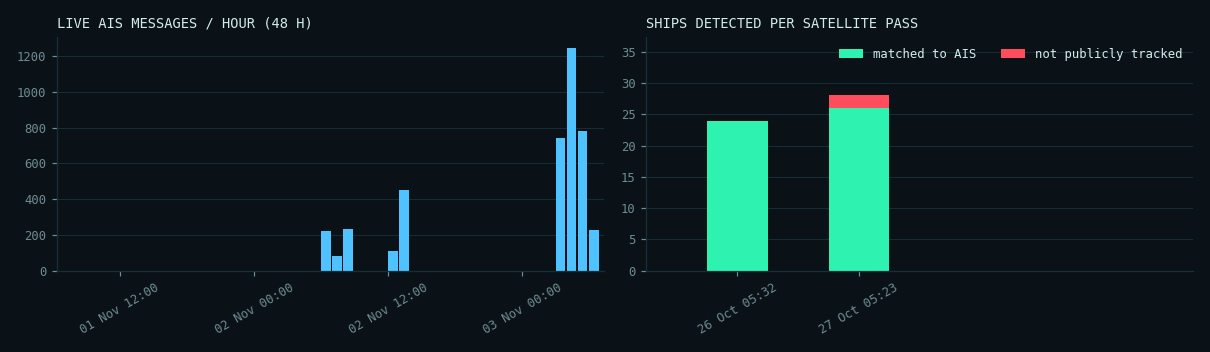
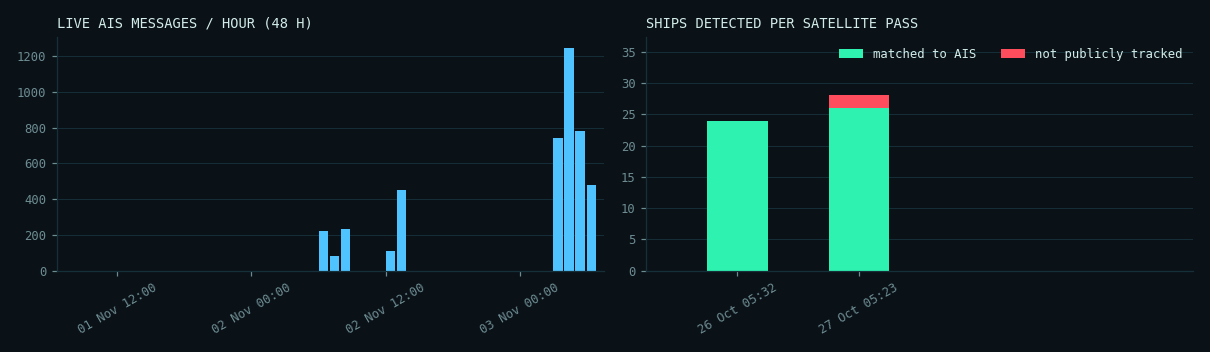
Automatic site update 2026-11-03 06:34 UTC

diff --git a/docs/denmark/index.html b/docs/denmark/index.html
@@ -83,13 +83,13 @@ footer{border-top:1px solid var(--line);padding:18px 0 28px;font:12px/1.6 var(--
   <div><div class="kicker">SAR &times; AIS &middot; MARITIME AWARENESS</div><div class="title">DARK VESSEL <b>DETECTION</b></div></div></a>
  <div class="status"><span class="pill"><span class="dot live"></span>AIS FEED <strong>LIVE</strong></span>
   <span class="pill">UTC <strong id="utc">--:--:--</strong></span>
-  <span class="pill">UPDATED <strong>03 Nov 06:20</strong></span></div>
+  <span class="pill">UPDATED <strong>03 Nov 06:34</strong></span></div>
 </div><nav class="tabs"><a class="" href="../index.html">OVERVIEW</a><a class="" href="../mumbai/index.html">MUMBAI</a><a class="on" href="../denmark/index.html">DENMARK</a><a class="" href="../nn/index.html">NEURAL NET</a><a class="" href="../demo/index.html">SIMULATION</a></nav></div></header>
 <main class="wrap"><div class="coords">SECTOR // DENMARK &middot; 55.55&ndash;55.85&deg;N &middot; 12.55&ndash;12.95&deg;E</div>
 <h1>Oresund, Copenhagen (Denmark/Sweden)</h1><p class="lede">Validation area. Sentinel-1 images it almost daily and coastal AIS coverage is dense, so the full match between radar and AIS can be shown and checked.</p>
 <div class="grid">
  <div class="panel"><div class="label">Live AIS feed</div><div class="value small"><span class='ok'>RECEIVING</span></div><div class="muted mono" style="font-size:12px;margin-top:6px">last message 0 min ago</div></div>
- <div class="panel"><div class="label">Ships broadcasting &middot; 30 min</div><div class="value cyan">51</div></div>
+ <div class="panel"><div class="label">Ships broadcasting &middot; 30 min</div><div class="value cyan">58</div></div>
  <div class="panel"><div class="label">Matched &middot; latest pass</div><div class="value ">26</div></div>
  <div class="panel"><div class="label">Not tracked &middot; high confidence</div><div class="value red">0</div></div>
  <div class="panel"><div class="label">Not tracked &middot; low confidence</div><div class="value amber">2</div></div>
@@ -98,7 +98,7 @@ footer{border-top:1px solid var(--line);padding:18px 0 28px;font:12px/1.6 var(--
 <div class="legend"><span><i style="background:var(--green)"></i>matched to AIS</span><span><i style="background:var(--red)"></i>not tracked &middot; high confidence</span>
 <span><i style="background:var(--amber)"></i>not tracked &middot; low confidence</span><span><i style="background:var(--cyan)"></i>live AIS position</span></div>
 <div id="map" class="map"></div><script>
-const D=[{"lon": 12.574560869565218, "lat": 55.849597826086956, "length_m": 72.681575622935, "score": 0.6554655519501138, "shore_km": 0.14150886088341372, "status": "matched", "reason": "", "confidence": "high", "crop": "", "ship_prob": 0.9335045218467712}, {"lon": 12.704759174311928, "lat": 55.82280412844037, "length_m": 364.1071436957287, "score": 0.9904753373251979, "shore_km": 9.407061429825474, "status": "matched", "reason": "", "confidence": "high", "crop": "", "ship_prob": 0.9868959784507751}, {"lon": 12.786416463414636, "lat": 55.804669512195126, "length_m": 155.0522474362954, "score": 0.9999646038759398, "shore_km": 4.658419014138412, "status": "matched", "reason": "", "confidence": "high", "crop": "", "ship_prob": 0.9993557333946228}, {"lon": 12.88229375, "lat": 55.849146875, "length_m": 53.38783327710226, "score": 0.9899546194309776, "shore_km": 0.9067240720863213, "status": "candidate", "reason": "same_spot_in_another_pass", "confidence": "low", "crop": "crops/S1-Oresund-20261027_37.png", "ship_prob": 0.7905591130256653}, {"lon": 12.604004166666668, "lat": 55.75985, "length_m": 141.84238362073958, "score": 0.6867268898684522, "shore_km": 0.07168283192738693, "status": "matched", "reason": "", "confidence": "high", "crop": "", "ship_prob": 0.5051270127296448}, {"lon": 12.605736764705883, "lat": 55.75241323529412, "length_m": 122.11483240811877, "score": 0.9136889320646264, "shore_km": 0.6454382429486746, "status": "candidate", "reason": "same_spot_in_another_pass", "confidence": "low", "crop": "crops/S1-Oresund-20261027_77.png", "ship_prob": 0.7927113175392151}, {"lon": 12.703722571428573, "lat": 55.77917742857143, "length_m": 223.0817648726515, "score": 0.9996320924909895, "shore_km": 5.943270442766068, "status": "matched", "reason": "", "confidence": "high", "crop": "", "ship_prob": 0.9938097596168518}, {"lon": 12.902757692307693, "lat": 55.75654230769231, "length_m": 65.46226537445588, "score": 0.7187896049600956, "shore_km": 0.03584141596369347, "status": "matched", "reason": "", "confidence": "high", "crop": "", "ship_prob": 0.8691755533218384}, {"lon": 12.589922222222222, "lat": 55.725764814814816, "length_m": 146.45480845096748, "score": 0.9957587025210503, "shore_km": 0.034771280891766385, "status": "matched", "reason": "", "confidence": "high", "crop": "", "ship_prob": 0.9983701109886169}, {"lon": 12.598472047244096, "lat": 55.72077913385827, "length_m": 207.62671185403417, "score": 0.609772230082722, "shore_km": 0.14016751439395445, "status": "matched", "reason": "", "confidence": "high", "crop": "", "ship_prob": 0.6074324250221252}, {"lon": 12.589218, "lat": 55.712854, "length_m": 90.49550243938293, "score": 0.6486089656085543, "shore_km": 0.043464101114707984, "status": "matched", "reason": "", "confidence": "high", "crop": "", "ship_prob": 0.9998902082443237}, {"lon": 12.59024090909091, "lat": 55.71147090909091, "length_m": 162.54265478639104, "score": 1.0, "shore_km": 0.06146752127277559, "status": "matched", "reason": "", "confidence": "high", "crop": "", "ship_prob": 0.9999992847442627}, {"lon": 12.597835937500001, "lat": 55.701648437500005, "length_m": 133.31776511703256, "score": 0.9396217092764791, "shore_km": 0.06789309632894441, "status": "matched", "reason": "", "confidence": "high", "crop": "", "ship_prob": 0.9999727010726929}, {"lon": 12.60914, "lat": 55.69712, "length_m": 65.36743236464424, "score": 0.7827588237578229, "shore_km": 0.03134240904220623, "status": "matched", "reason": "", "confidence": "high", "crop": "", "ship_prob": 0.9867132902145386}, {"lon": 12.668552272727274, "lat": 55.72007840909091, "length_m": 207.26605497726354, "score": 0.6251792307103263, "shore_km": 0.03584141596369347, "status": "matched", "reason": "", "confidence": "high", "crop": "", "ship_prob": 0.9087074398994446}, {"lon": 12.5996, "lat": 55.68885, "length_m": 40.00855981470757, "score": 0.7664068666153926, "shore_km": 0.024587008509110237, "status": "matched", "reason": "", "confidence": "high", "crop": "", "ship_prob": 0.9766618013381958}, {"lon": 12.595819230769232, "lat": 55.67989871794872, "length_m": 127.62371588738732, "score": 0.9426870407335851, "shore_km": 0.05068741655051085, "status": "matched", "reason": "", "confidence": "high", "crop": "", "ship_prob": 0.9998841285705566}, {"lon": 12.594722222222224, "lat": 55.67918888888889, "length_m": 40.64467714079742, "score": 0.7639524834029205, "shore_km": 0.043464101114707984, "status": "matched", "reason": "", "confidence": "high", "crop": "", "ship_prob": 0.9999454021453857}, {"lon": 12.610660714285714, "lat": 55.69618571428572, "length_m": 94.51225356515693, "score": 0.9621795096736379, "shore_km": 0.03134240904220623, "status": "matched", "reason": "", "confidence": "high", "crop": "", "ship_prob": 0.999042809009552}, {"lon": 12.649045000000001, "lat": 55.692155, "length_m": 80.63364746000343, "score": 0.8515033668168979, "shore_km": 0.8863693295037299, "status": "matched", "reason": "", "confidence": "high", "crop": "", "ship_prob": 0.4333752989768982}, {"lon": 12.630751724137932, "lat": 55.685453448275865, "length_m": 125.00287123881988, "score": 0.93629426700422, "shore_km": 0.043464101114707984, "status": "matched", "reason": "", "confidence": "high", "crop": "", "ship_prob": 0.9975905418395996}, {"lon": 12.634987254901962, "lat": 55.677338235294116, "length_m": 276.5478352749318, "score": 0.7686103584091717, "shore_km": 0.024587008509110237, "status": "matched", "reason": "", "confidence": "high", "crop": "", "ship_prob": 0.9729636907577515}, {"lon": 12.68766150442478, "lat": 55.69581814159292, "length_m": 176.8074930452176, "score": 0.923202226335388, "shore_km": 2.6834920471942074, "status": "matched", "reason": "", "confidence": "high", "crop": "", "ship_prob": 0.8427141904830933}, {"lon": 12.65826847826087, "lat": 55.63610108695652, "length_m": 174.21377549767067, "score": 0.9833187000337672, "shore_km": 0.043464101114707984, "status": "matched", "reason": "", "confidence": "high", "crop": "", "ship_prob": 0.9998973608016968}, {"lon": 12.680683333333334, "lat": 55.610910000000004, "length_m": 74.22790892756812, "score": 0.6314184609397504, "shore_km": 0.03134240904220623, "status": "matched", "reason": "", "confidence": "high", "crop": "", "ship_prob": 0.44054293632507324}, {"lon": 12.868352132196163, "lat": 55.60022420042644, "length_m": 299.20726350177785, "score": 0.9999960398718075, "shore_km": 2.8169298200726325, "status": "matched", "reason": "", "confidence": "high", "crop": "", "ship_prob": 0.9967911839485168}, {"lon": 12.680875, "lat": 55.59323, "length_m": 95.51211981545671, "score": 0.7585723176580392, "shore_km": 0.03584141596369347, "status": "matched", "reason": "", "confidence": "high", "crop": "", "ship_prob": 0.797581672668457}, {"lon": 12.706387741935485, "lat": 55.56306903225806, "length_m": 301.4640427512081, "score": 0.9999731380181186, "shore_km": 3.1965238712919084, "status": "matched", "reason": "", "confidence": "high", "crop": "", "ship_prob": 0.9941650032997131}],LIVE=[{"lon": 13.03514, "lat": 55.624698333333335, "sog": 0.1, "age": 11}, {"lon": 12.988921666666666, "lat": 55.62663833333333, "sog": 0.0, "age": 11}, {"lon": 12.634123333333333, "lat": 55.67576666666666, "sog": 0.0, "age": 9}, {"lon": 12.592986666666667, "lat": 55.67926333333333, "sog": 0.0, "age": 9}, {"lon": 12.634923333333335, "lat": 55.68710333333333, "sog": 0.0, "age": 8}, {"lon": 12.97177, "lat": 55.63516333333334, "sog": 4.7, "age": 8}, {"lon": 12.48837, "lat": 55.517455000000005, "sog": 0.0, "age": 8}, {"lon": 12.83042, "lat": 55.85602333333333, "sog": 0.0, "age": 8}, {"lon": 12.603501666666666, "lat": 55.76060333333333, "sog": 0.0, "age": 7}, {"lon": 13.03378, "lat": 55.624555, "sog": 0.0, "age": 7}, {"lon": 12.611668333333334, "lat": 55.90405666666666, "sog": 6.2, "age": 7}, {"lon": 12.635378333333334, "lat": 55.67645166666667, "sog": 0.0, "age": 7}, {"lon": 12.823653333333334, "lat": 55.86640666666666, "sog": 0.1, "age": 6}, {"lon": 12.695068333333333, "lat": 55.40103833333333, "sog": 11.1, "age": 6}, {"lon": 12.676611666666668, "lat": 55.93177333333333, "sog": 0.0, "age": 5}, {"lon": 12.827605, "lat": 55.86271, "sog": 0.0, "age": 5}, {"lon": 12.833733333333333, "lat": 55.85573333333333, "sog": 0.0, "age": 5}, {"lon": 12.8329, "lat": 55.85850666666667, "sog": 0.0, "age": 4}, {"lon": 12.636835, "lat": 55.91780333333334, "sog": 8.5, "age": 4}, {"lon": 12.680176666666666, "lat": 55.59282666666666, "sog": 0.0, "age": 3}, {"lon": 12.665905, "lat": 55.719773333333336, "sog": 0.0, "age": 3}, {"lon": 12.823925000000001, "lat": 55.865898333333334, "sog": 4.5, "age": 3}, {"lon": 12.833300000000001, "lat": 55.85588333333333, "sog": 0.0, "age": 3}, {"lon": 12.572716666666668, "lat": 55.850813333333335, "sog": 0.0, "age": 3}, {"lon": 12.48245, "lat": 55.6014, "sog": 0.0, "age": 3}, {"lon": 12.594958333333333, "lat": 55.68246333333333, "sog": 0.0, "age": 2}, {"lon": 12.603496666666667, "lat": 55.76053666666667, "sog": 0.0, "age": 2}, {"lon": 12.732318333333334, "lat": 55.91757166666666, "sog": 10.7, "age": 2}, {"lon": 12.599034999999999, "lat": 55.68902833333333, "sog": 0.0, "age": 2}, {"lon": 12.744403333333334, "lat": 55.99328, "sog": 0.0, "age": 2}, {"lon": 12.82485, "lat": 55.865916666666664, "sog": 0.0, "age": 2}, {"lon": 12.831928333333334, "lat": 55.85404166666667, "sog": 0.0, "age": 1}, {"lon": 12.593515, "lat": 55.679134999999995, "sog": 0.0, "age": 1}, {"lon": 12.729398333333334, "lat": 55.980019999999996, "sog": 0.0, "age": 1}, {"lon": 12.64747, "lat": 55.676876666666665, "sog": 0.0, "age": 1}, {"lon": 12.676870000000001, "lat": 55.593939999999996, "sog": 0.0, "age": 1}, {"lon": 12.630685, "lat": 55.68995833333334, "sog": 0.0, "age": 1}, {"lon": 12.761291666666667, "lat": 55.88433, "sog": 1.4, "age": 1}, {"lon": 12.658303333333333, "lat": 55.852925, "sog": 7.3, "age": 1}, {"lon": 12.892151666666667, "lat": 55.52372666666667, "sog": 0.0, "age": 1}, {"lon": 12.646843333333333, "lat": 55.677389999999995, "sog": 0.0, "age": 1}, {"lon": 13.058494999999999, "lat": 55.67565333333334, "sog": 0.0, "age": 1}, {"lon": 12.680058333333333, "lat": 55.59289833333333, "sog": 0.0, "age": 1}, {"lon": 12.903493333333333, "lat": 55.75664166666666, "sog": 0.1, "age": 1}, {"lon": 12.667261666666667, "lat": 55.718905, "sog": 0.1, "age": 1}, {"lon": 12.501025, "lat": 55.61134833333333, "sog": 0.0, "age": 0}, {"lon": 12.625271666666666, "lat": 55.69106166666666, "sog": 0.0, "age": 0}, {"lon": 12.696838333333334, "lat": 55.520271666666666, "sog": 10.0, "age": 0}, {"lon": 12.744448333333334, "lat": 55.99321833333333, "sog": 0.0, "age": 0}, {"lon": 12.687335, "lat": 55.661188333333335, "sog": 10.2, "age": 0}, {"lon": 12.835141666666667, "lat": 55.85987, "sog": 0.0, "age": 0}],B=[[55.55,12.55],[55.85,12.95]];const m=L.map('map',{zoomSnap:.25}).fitBounds(B);
+const D=[{"lon": 12.574560869565218, "lat": 55.849597826086956, "length_m": 72.681575622935, "score": 0.6554655519501138, "shore_km": 0.14150886088341372, "status": "matched", "reason": "", "confidence": "high", "crop": "", "ship_prob": 0.9335045218467712}, {"lon": 12.704759174311928, "lat": 55.82280412844037, "length_m": 364.1071436957287, "score": 0.9904753373251979, "shore_km": 9.407061429825474, "status": "matched", "reason": "", "confidence": "high", "crop": "", "ship_prob": 0.9868959784507751}, {"lon": 12.786416463414636, "lat": 55.804669512195126, "length_m": 155.0522474362954, "score": 0.9999646038759398, "shore_km": 4.658419014138412, "status": "matched", "reason": "", "confidence": "high", "crop": "", "ship_prob": 0.9993557333946228}, {"lon": 12.88229375, "lat": 55.849146875, "length_m": 53.38783327710226, "score": 0.9899546194309776, "shore_km": 0.9067240720863213, "status": "candidate", "reason": "same_spot_in_another_pass", "confidence": "low", "crop": "crops/S1-Oresund-20261027_37.png", "ship_prob": 0.7905591130256653}, {"lon": 12.604004166666668, "lat": 55.75985, "length_m": 141.84238362073958, "score": 0.6867268898684522, "shore_km": 0.07168283192738693, "status": "matched", "reason": "", "confidence": "high", "crop": "", "ship_prob": 0.5051270127296448}, {"lon": 12.605736764705883, "lat": 55.75241323529412, "length_m": 122.11483240811877, "score": 0.9136889320646264, "shore_km": 0.6454382429486746, "status": "candidate", "reason": "same_spot_in_another_pass", "confidence": "low", "crop": "crops/S1-Oresund-20261027_77.png", "ship_prob": 0.7927113175392151}, {"lon": 12.703722571428573, "lat": 55.77917742857143, "length_m": 223.0817648726515, "score": 0.9996320924909895, "shore_km": 5.943270442766068, "status": "matched", "reason": "", "confidence": "high", "crop": "", "ship_prob": 0.9938097596168518}, {"lon": 12.902757692307693, "lat": 55.75654230769231, "length_m": 65.46226537445588, "score": 0.7187896049600956, "shore_km": 0.03584141596369347, "status": "matched", "reason": "", "confidence": "high", "crop": "", "ship_prob": 0.8691755533218384}, {"lon": 12.589922222222222, "lat": 55.725764814814816, "length_m": 146.45480845096748, "score": 0.9957587025210503, "shore_km": 0.034771280891766385, "status": "matched", "reason": "", "confidence": "high", "crop": "", "ship_prob": 0.9983701109886169}, {"lon": 12.598472047244096, "lat": 55.72077913385827, "length_m": 207.62671185403417, "score": 0.609772230082722, "shore_km": 0.14016751439395445, "status": "matched", "reason": "", "confidence": "high", "crop": "", "ship_prob": 0.6074324250221252}, {"lon": 12.589218, "lat": 55.712854, "length_m": 90.49550243938293, "score": 0.6486089656085543, "shore_km": 0.043464101114707984, "status": "matched", "reason": "", "confidence": "high", "crop": "", "ship_prob": 0.9998902082443237}, {"lon": 12.59024090909091, "lat": 55.71147090909091, "length_m": 162.54265478639104, "score": 1.0, "shore_km": 0.06146752127277559, "status": "matched", "reason": "", "confidence": "high", "crop": "", "ship_prob": 0.9999992847442627}, {"lon": 12.597835937500001, "lat": 55.701648437500005, "length_m": 133.31776511703256, "score": 0.9396217092764791, "shore_km": 0.06789309632894441, "status": "matched", "reason": "", "confidence": "high", "crop": "", "ship_prob": 0.9999727010726929}, {"lon": 12.60914, "lat": 55.69712, "length_m": 65.36743236464424, "score": 0.7827588237578229, "shore_km": 0.03134240904220623, "status": "matched", "reason": "", "confidence": "high", "crop": "", "ship_prob": 0.9867132902145386}, {"lon": 12.668552272727274, "lat": 55.72007840909091, "length_m": 207.26605497726354, "score": 0.6251792307103263, "shore_km": 0.03584141596369347, "status": "matched", "reason": "", "confidence": "high", "crop": "", "ship_prob": 0.9087074398994446}, {"lon": 12.5996, "lat": 55.68885, "length_m": 40.00855981470757, "score": 0.7664068666153926, "shore_km": 0.024587008509110237, "status": "matched", "reason": "", "confidence": "high", "crop": "", "ship_prob": 0.9766618013381958}, {"lon": 12.595819230769232, "lat": 55.67989871794872, "length_m": 127.62371588738732, "score": 0.9426870407335851, "shore_km": 0.05068741655051085, "status": "matched", "reason": "", "confidence": "high", "crop": "", "ship_prob": 0.9998841285705566}, {"lon": 12.594722222222224, "lat": 55.67918888888889, "length_m": 40.64467714079742, "score": 0.7639524834029205, "shore_km": 0.043464101114707984, "status": "matched", "reason": "", "confidence": "high", "crop": "", "ship_prob": 0.9999454021453857}, {"lon": 12.610660714285714, "lat": 55.69618571428572, "length_m": 94.51225356515693, "score": 0.9621795096736379, "shore_km": 0.03134240904220623, "status": "matched", "reason": "", "confidence": "high", "crop": "", "ship_prob": 0.999042809009552}, {"lon": 12.649045000000001, "lat": 55.692155, "length_m": 80.63364746000343, "score": 0.8515033668168979, "shore_km": 0.8863693295037299, "status": "matched", "reason": "", "confidence": "high", "crop": "", "ship_prob": 0.4333752989768982}, {"lon": 12.630751724137932, "lat": 55.685453448275865, "length_m": 125.00287123881988, "score": 0.93629426700422, "shore_km": 0.043464101114707984, "status": "matched", "reason": "", "confidence": "high", "crop": "", "ship_prob": 0.9975905418395996}, {"lon": 12.634987254901962, "lat": 55.677338235294116, "length_m": 276.5478352749318, "score": 0.7686103584091717, "shore_km": 0.024587008509110237, "status": "matched", "reason": "", "confidence": "high", "crop": "", "ship_prob": 0.9729636907577515}, {"lon": 12.68766150442478, "lat": 55.69581814159292, "length_m": 176.8074930452176, "score": 0.923202226335388, "shore_km": 2.6834920471942074, "status": "matched", "reason": "", "confidence": "high", "crop": "", "ship_prob": 0.8427141904830933}, {"lon": 12.65826847826087, "lat": 55.63610108695652, "length_m": 174.21377549767067, "score": 0.9833187000337672, "shore_km": 0.043464101114707984, "status": "matched", "reason": "", "confidence": "high", "crop": "", "ship_prob": 0.9998973608016968}, {"lon": 12.680683333333334, "lat": 55.610910000000004, "length_m": 74.22790892756812, "score": 0.6314184609397504, "shore_km": 0.03134240904220623, "status": "matched", "reason": "", "confidence": "high", "crop": "", "ship_prob": 0.44054293632507324}, {"lon": 12.868352132196163, "lat": 55.60022420042644, "length_m": 299.20726350177785, "score": 0.9999960398718075, "shore_km": 2.8169298200726325, "status": "matched", "reason": "", "confidence": "high", "crop": "", "ship_prob": 0.9967911839485168}, {"lon": 12.680875, "lat": 55.59323, "length_m": 95.51211981545671, "score": 0.7585723176580392, "shore_km": 0.03584141596369347, "status": "matched", "reason": "", "confidence": "high", "crop": "", "ship_prob": 0.797581672668457}, {"lon": 12.706387741935485, "lat": 55.56306903225806, "length_m": 301.4640427512081, "score": 0.9999731380181186, "shore_km": 3.1965238712919084, "status": "matched", "reason": "", "confidence": "high", "crop": "", "ship_prob": 0.9941650032997131}],LIVE=[{"lon": 13.03514, "lat": 55.624698333333335, "sog": 0.1, "age": 25}, {"lon": 12.603501666666666, "lat": 55.76060333333333, "sog": 0.0, "age": 21}, {"lon": 12.695068333333333, "lat": 55.40103833333333, "sog": 11.1, "age": 19}, {"lon": 12.676611666666668, "lat": 55.93177333333333, "sog": 0.0, "age": 19}, {"lon": 12.833733333333333, "lat": 55.85573333333333, "sog": 0.0, "age": 19}, {"lon": 12.665905, "lat": 55.719773333333336, "sog": 0.0, "age": 17}, {"lon": 12.646843333333333, "lat": 55.677389999999995, "sog": 0.0, "age": 15}, {"lon": 12.592983333333333, "lat": 55.67926166666667, "sog": 0.0, "age": 13}, {"lon": 12.593533333333333, "lat": 55.67915, "sog": 0.0, "age": 11}, {"lon": 12.827713333333332, "lat": 55.862743333333334, "sog": 0.1, "age": 11}, {"lon": 12.835138333333333, "lat": 55.85987, "sog": 0.0, "age": 11}, {"lon": 12.990161666666667, "lat": 55.62688, "sog": 0.0, "age": 9}, {"lon": 13.033296666666667, "lat": 55.62452, "sog": 0.0, "age": 9}, {"lon": 12.692533333333333, "lat": 55.50602666666667, "sog": 10.1, "age": 9}, {"lon": 12.634111666666666, "lat": 55.675758333333334, "sog": 0.0, "age": 8}, {"lon": 12.955386666666667, "lat": 55.65205, "sog": 5.0, "age": 8}, {"lon": 12.634843333333333, "lat": 55.687155, "sog": 0.0, "age": 7}, {"lon": 12.729386666666667, "lat": 55.98001, "sog": 0.0, "age": 6}, {"lon": 12.594948333333333, "lat": 55.68244666666667, "sog": 0.0, "age": 4}, {"lon": 12.647473333333332, "lat": 55.67688, "sog": 0.0, "age": 4}, {"lon": 12.680433333333333, "lat": 55.611239999999995, "sog": 0.0, "age": 4}, {"lon": 12.488356666666666, "lat": 55.51745833333334, "sog": 0.0, "age": 4}, {"lon": 12.903505, "lat": 55.756643333333336, "sog": 0.1, "age": 4}, {"lon": 12.744415, "lat": 55.993293333333334, "sog": 0.0, "age": 4}, {"lon": 12.482431666666667, "lat": 55.60140666666667, "sog": 0.0, "age": 4}, {"lon": 12.8329, "lat": 55.85850666666667, "sog": 0.0, "age": 3}, {"lon": 12.694516666666667, "lat": 55.631795000000004, "sog": 9.9, "age": 3}, {"lon": 12.676934999999999, "lat": 55.59396666666667, "sog": 0.0, "age": 3}, {"lon": 12.997353333333333, "lat": 55.61365, "sog": 0.0, "age": 2}, {"lon": 12.66508, "lat": 55.827745, "sog": 8.0, "age": 2}, {"lon": 12.634808333333332, "lat": 55.87186, "sog": 7.1, "age": 2}, {"lon": 12.744443333333333, "lat": 55.993225, "sog": 0.0, "age": 2}, {"lon": 12.65814, "lat": 55.88143166666667, "sog": 8.5, "age": 2}, {"lon": 12.62525, "lat": 55.69106166666666, "sog": 0.0, "age": 2}, {"lon": 12.999793333333335, "lat": 55.618365000000004, "sog": 0.0, "age": 2}, {"lon": 12.833333333333334, "lat": 55.855916666666666, "sog": 0.0, "age": 2}, {"lon": 12.766726666666667, "lat": 55.886995, "sog": 6.1, "age": 1}, {"lon": 12.823966666666667, "lat": 55.864866666666664, "sog": 6.0, "age": 1}, {"lon": 12.603496666666667, "lat": 55.760515000000005, "sog": 0.0, "age": 1}, {"lon": 12.768068333333334, "lat": 55.88643666666667, "sog": 7.1, "age": 1}, {"lon": 12.68016, "lat": 55.59282333333333, "sog": 0.0, "age": 1}, {"lon": 12.680065, "lat": 55.59288166666667, "sog": 0.0, "age": 1}, {"lon": 12.98892, "lat": 55.62665666666667, "sog": 0.0, "age": 1}, {"lon": 12.599029999999999, "lat": 55.68902833333333, "sog": 0.0, "age": 1}, {"lon": 12.830413333333333, "lat": 55.85601333333333, "sog": 0.0, "age": 1}, {"lon": 12.823649999999999, "lat": 55.86640333333333, "sog": 0.1, "age": 0}, {"lon": 12.997253333333333, "lat": 55.61376, "sog": 0.1, "age": 0}, {"lon": 13.058503333333334, "lat": 55.67564333333333, "sog": 0.0, "age": 0}, {"lon": 12.892185000000001, "lat": 55.52374, "sog": 0.0, "age": 0}, {"lon": 12.825334999999999, "lat": 55.86550666666667, "sog": 0.0, "age": 0}, {"lon": 12.831928333333334, "lat": 55.85404333333334, "sog": 0.0, "age": 0}, {"lon": 12.572728333333334, "lat": 55.85085166666667, "sog": 0.0, "age": 0}, {"lon": 12.72982, "lat": 55.75190166666666, "sog": 0.0, "age": 0}, {"lon": 13.033818333333333, "lat": 55.624583333333334, "sog": 0.0, "age": 0}, {"lon": 12.666916666666667, "lat": 55.71884, "sog": 0.1, "age": 0}, {"lon": 12.630748333333335, "lat": 55.689814999999996, "sog": 0.0, "age": 0}, {"lon": 12.635351666666667, "lat": 55.67645166666667, "sog": 0.0, "age": 0}, {"lon": 12.501046666666667, "lat": 55.611325, "sog": 0.0, "age": 0}],B=[[55.55,12.55],[55.85,12.95]];const m=L.map('map',{zoomSnap:.25}).fitBounds(B);
 // re-fit once layout has settled: if the container had no size when the map was created, Leaflet falls back to zoom 0
 const refit=()=>{m.invalidateSize();m.fitBounds(B);};setTimeout(refit,0);window.addEventListener('load',refit);
 // standard OSM tiles (no API key), turned into a dark "radar console" basemap with a CSS filter (.radar-tiles)
@@ -116,7 +116,7 @@ L.control.layers(null,{'Radar detections (selected pass)':det,'Live AIS, last 30
 </script>
 <h2>Pass log</h2><div class='tablewrap'><table><thead><tr><th>pass (UTC)</th><th>ships</th><th>matched</th><th>not tracked</th><th>low conf.</th><th>match rate</th><th>AIS msgs</th></tr></thead><tbody><tr><td>2026-10-27 05:23 UTC</td><td>28</td><td class='ok'>26</td><td class='bad'>0</td><td style='color:var(--amber)'>2</td><td>93%</td><td>10687</td></tr><tr><td>2026-10-26 05:32 UTC</td><td>24</td><td class='ok'>24</td><td class='bad'>0</td><td style='color:var(--amber)'>0</td><td>100%</td><td>11603</td></tr></tbody></table></div>
 <h2>Telemetry</h2><img class="chart" src="charts.png" alt="AIS messages per hour and ships detected per pass">
-<p class="muted mono" style="font-size:12px">Feed gaps in the last 24 h: 13 (1206 min) &middot; AIS messages in the last hour: 876</p>
+<p class="muted mono" style="font-size:12px">Feed gaps in the last 24 h: 15 (1210 min) &middot; AIS messages in the last hour: 816</p>
 <h2>Recent Sentinel-1 acquisitions</h2><ul class="acq"><li>2026-11-02 05:23 UTC</li><li>2026-11-01 16:44 UTC</li><li>2026-11-01 05:31 UTC</li><li>2026-10-31 16:52 UTC</li><li>2026-10-30 17:00 UTC</li><li>2026-10-27 05:23 UTC</li><li>2026-10-26 05:32 UTC</li><li>2026-10-25 16:52 UTC</li></ul></main>
 <footer><div class="wrap">Data: Copernicus Sentinel-1 (ESA) &middot; AIS via aisstream.io and the Danish Maritime Authority &middot;
 coastlines, structures and basemap &copy; OpenStreetMap contributors. Flags are candidates for review, not accusations.</div></footer>

diff --git a/docs/index.html b/docs/index.html
@@ -83,7 +83,7 @@ footer{border-top:1px solid var(--line);padding:18px 0 28px;font:12px/1.6 var(--
   <div><div class="kicker">SAR &times; AIS &middot; MARITIME AWARENESS</div><div class="title">DARK VESSEL <b>DETECTION</b></div></div></a>
  <div class="status"><span class="pill"><span class="dot live"></span>AIS FEED <strong>LIVE</strong></span>
   <span class="pill">UTC <strong id="utc">--:--:--</strong></span>
-  <span class="pill">UPDATED <strong>03 Nov 06:20</strong></span></div>
+  <span class="pill">UPDATED <strong>03 Nov 06:34</strong></span></div>
 </div><nav class="tabs"><a class="on" href="index.html">OVERVIEW</a><a class="" href="mumbai/index.html">MUMBAI</a><a class="" href="denmark/index.html">DENMARK</a><a class="" href="nn/index.html">NEURAL NET</a><a class="" href="demo/index.html">SIMULATION</a></nav></div></header>
 <main class="wrap"><div class="coords">SYSTEM OVERVIEW</div>
 <h1>Ships the radar sees that nobody is tracking</h1>
@@ -91,7 +91,7 @@ footer{border-top:1px solid var(--line);padding:18px 0 28px;font:12px/1.6 var(--
 This system compares the two for each processed Sentinel-1 pass and lists the ships that appear on radar with no matching AIS signal.</p>
 <div class="grid" style="margin-top:18px"><div class="panel"><div class="label">Satellite passes processed</div><div class="value ">3</div></div><div class="panel"><div class="label">Ships matched to AIS</div><div class="value ">50</div></div>
 <div class="panel"><div class="label">Not tracked &middot; high confidence</div><div class="value red">0</div></div><div class="panel"><div class="label">Not tracked &middot; low confidence</div><div class="value amber">117</div></div>
-<div class="panel"><div class="label">Broadcasting now &middot; 30 min</div><div class="value cyan">51</div></div></div>
+<div class="panel"><div class="label">Broadcasting now &middot; 30 min</div><div class="value cyan">58</div></div></div>
 <p class="muted" style="font-size:13px;margin-top:10px"><b>High confidence</b> = no AIS ship nearby although the AIS feed was healthy and the
 target is within receiver range, and it is not at a spot where something was also seen on another pass. Everything else is
 <b>low confidence</b>: the data cannot support calling it dark (for example Mumbai, where no AIS was available for the pass at all).</p>
@@ -114,14 +114,14 @@ same pipeline using historical AIS. Next expected passes: Mumbai about 5 Nov 01:
 <div class="kv"><span>ships matched to AIS</span><span class="ok">50</span></div>
 <div class="kv"><span>not tracked, high confidence</span><span class="bad">0</span></div>
 <div class="kv"><span>not tracked, low confidence</span><span style="color:var(--amber)">2</span></div>
-<div class="kv"><span>broadcasting now (30 min)</span><span style="color:var(--cyan)">51</span></div>
+<div class="kv"><span>broadcasting now (30 min)</span><span style="color:var(--cyan)">58</span></div>
 <div class="go">OPEN SECTOR &rarr;</div></a></div>
 <h2>Read before trusting a flag</h2>
 <div class="alert"><b>"Not publicly tracked" is not "switched off".</b> Small boats often carry no public AIS, free AIS comes from coastal
 receivers with limited range, and ships under about 40 m are not reliably visible to the satellite. Low-confidence flags are the ones the
 data cannot support: beyond receiver range, during an AIS feed gap, or with no AIS recorded.</div>
 <h2>Automatic runs</h2><p class="muted mono" style="font-size:12.5px;margin-top:-4px">Each row is one automatic website rebuild, with the live AIS counts at that moment. Newest first.</p>
-<div class="tablewrap"><table><thead><tr><th>run (UTC)</th><th>mumbai live</th><th>mumbai msg/h</th><th>denmark live</th><th>denmark msg/h</th></tr></thead><tbody><tr><td>2026-11-03 06:20</td><td>0</td><td>0</td><td>51</td><td>876</td></tr><tr><td>2026-11-03 06:19</td><td>0</td><td>0</td><td>47</td><td>866</td></tr><tr><td>2026-11-03 05:46</td><td>0</td><td>0</td><td>62</td><td>986</td></tr><tr><td>2026-11-03 05:44</td><td>0</td><td>0</td><td>62</td><td>992</td></tr><tr><td>2026-11-03 05:30</td><td>0</td><td>0</td><td>57</td><td>972</td></tr><tr><td>2026-11-03 05:29</td><td>0</td><td>0</td><td>57</td><td>970</td></tr><tr><td>2026-11-03 05:14</td><td>0</td><td>0</td><td>50</td><td>1000</td></tr><tr><td>2026-11-03 05:13</td><td>0</td><td>0</td><td>50</td><td>1026</td></tr><tr><td>2026-11-03 04:59</td><td>0</td><td>0</td><td>58</td><td>1250</td></tr><tr><td>2026-11-03 04:58</td><td>0</td><td>0</td><td>59</td><td>1250</td></tr><tr><td>2026-11-03 04:44</td><td>0</td><td>0</td><td>60</td><td>1240</td></tr><tr><td>2026-11-03 04:42</td><td>0</td><td>0</td><td>59</td><td>1248</td></tr><tr><td>2026-11-03 04:28</td><td>0</td><td>0</td><td>58</td><td>1242</td></tr><tr><td>2026-11-03 04:27</td><td>0</td><td>0</td><td>57</td><td>1240</td></tr><tr><td>2026-11-03 04:12</td><td>0</td><td>0</td><td>56</td><td>994</td></tr><tr><td>2026-11-03 04:11</td><td>0</td><td>0</td><td>56</td><td>967</td></tr><tr><td>2026-11-03 03:57</td><td>0</td><td>0</td><td>59</td><td>666</td></tr><tr><td>2026-11-03 03:55</td><td>0</td><td>0</td><td>59</td><td>644</td></tr><tr><td>2026-11-03 03:41</td><td>0</td><td>0</td><td>58</td><td>348</td></tr><tr><td>2026-11-03 03:40</td><td>0</td><td>0</td><td>58</td><td>330</td></tr><tr><td>2026-11-03 03:26</td><td>0</td><td>0</td><td>31</td><td>65</td></tr><tr><td>2026-11-03 03:24</td><td>0</td><td>0</td><td>27</td><td>52</td></tr><tr><td>2026-11-02 13:37</td><td>0</td><td>0</td><td>68</td><td>479</td></tr><tr><td>2026-11-02 13:34</td><td>0</td><td>0</td><td>68</td><td>448</td></tr></tbody></table></div></main>
+<div class="tablewrap"><table><thead><tr><th>run (UTC)</th><th>mumbai live</th><th>mumbai msg/h</th><th>denmark live</th><th>denmark msg/h</th></tr></thead><tbody><tr><td>2026-11-03 06:34</td><td>0</td><td>0</td><td>58</td><td>816</td></tr><tr><td>2026-11-03 06:20</td><td>0</td><td>0</td><td>51</td><td>876</td></tr><tr><td>2026-11-03 06:19</td><td>0</td><td>0</td><td>47</td><td>866</td></tr><tr><td>2026-11-03 05:46</td><td>0</td><td>0</td><td>62</td><td>986</td></tr><tr><td>2026-11-03 05:44</td><td>0</td><td>0</td><td>62</td><td>992</td></tr><tr><td>2026-11-03 05:30</td><td>0</td><td>0</td><td>57</td><td>972</td></tr><tr><td>2026-11-03 05:29</td><td>0</td><td>0</td><td>57</td><td>970</td></tr><tr><td>2026-11-03 05:14</td><td>0</td><td>0</td><td>50</td><td>1000</td></tr><tr><td>2026-11-03 05:13</td><td>0</td><td>0</td><td>50</td><td>1026</td></tr><tr><td>2026-11-03 04:59</td><td>0</td><td>0</td><td>58</td><td>1250</td></tr><tr><td>2026-11-03 04:58</td><td>0</td><td>0</td><td>59</td><td>1250</td></tr><tr><td>2026-11-03 04:44</td><td>0</td><td>0</td><td>60</td><td>1240</td></tr><tr><td>2026-11-03 04:42</td><td>0</td><td>0</td><td>59</td><td>1248</td></tr><tr><td>2026-11-03 04:28</td><td>0</td><td>0</td><td>58</td><td>1242</td></tr><tr><td>2026-11-03 04:27</td><td>0</td><td>0</td><td>57</td><td>1240</td></tr><tr><td>2026-11-03 04:12</td><td>0</td><td>0</td><td>56</td><td>994</td></tr><tr><td>2026-11-03 04:11</td><td>0</td><td>0</td><td>56</td><td>967</td></tr><tr><td>2026-11-03 03:57</td><td>0</td><td>0</td><td>59</td><td>666</td></tr><tr><td>2026-11-03 03:55</td><td>0</td><td>0</td><td>59</td><td>644</td></tr><tr><td>2026-11-03 03:41</td><td>0</td><td>0</td><td>58</td><td>348</td></tr><tr><td>2026-11-03 03:40</td><td>0</td><td>0</td><td>58</td><td>330</td></tr><tr><td>2026-11-03 03:26</td><td>0</td><td>0</td><td>31</td><td>65</td></tr><tr><td>2026-11-03 03:24</td><td>0</td><td>0</td><td>27</td><td>52</td></tr><tr><td>2026-11-02 13:37</td><td>0</td><td>0</td><td>68</td><td>479</td></tr></tbody></table></div></main>
 <footer><div class="wrap">Data: Copernicus Sentinel-1 (ESA) &middot; AIS via aisstream.io and the Danish Maritime Authority &middot;
 coastlines, structures and basemap &copy; OpenStreetMap contributors. Flags are candidates for review, not accusations.</div></footer>
 <script>(function(){const e=document.getElementById('utc');const t=()=>e.textContent=new Date().toISOString().slice(11,19);t();setInterval(t,1000);})();</script>

diff --git a/docs/mumbai/index.html b/docs/mumbai/index.html
@@ -83,7 +83,7 @@ footer{border-top:1px solid var(--line);padding:18px 0 28px;font:12px/1.6 var(--
   <div><div class="kicker">SAR &times; AIS &middot; MARITIME AWARENESS</div><div class="title">DARK VESSEL <b>DETECTION</b></div></div></a>
  <div class="status"><span class="pill"><span class="dot live"></span>AIS FEED <strong>LIVE</strong></span>
   <span class="pill">UTC <strong id="utc">--:--:--</strong></span>
-  <span class="pill">UPDATED <strong>03 Nov 06:20</strong></span></div>
+  <span class="pill">UPDATED <strong>03 Nov 06:34</strong></span></div>
 </div><nav class="tabs"><a class="" href="../index.html">OVERVIEW</a><a class="on" href="../mumbai/index.html">MUMBAI</a><a class="" href="../denmark/index.html">DENMARK</a><a class="" href="../nn/index.html">NEURAL NET</a><a class="" href="../demo/index.html">SIMULATION</a></nav></div></header>
 <main class="wrap"><div class="coords">SECTOR // MUMBAI &middot; 18.80&ndash;19.10&deg;N &middot; 72.55&ndash;72.95&deg;E</div>
 <h1>Mumbai coast and harbour, India</h1><p class="lede">The project's target area. Sentinel-1 images it about once every 12 days, and free AIS comes only from coastal receivers, so many unmatched ships here are simply out of receiver range.</p>
@@ -116,7 +116,7 @@ L.control.layers(null,{'Radar detections (selected pass)':det,'Live AIS, last 30
 </script>
 <h2>Pass log</h2><div class='tablewrap'><table><thead><tr><th>pass (UTC)</th><th>ships</th><th>matched</th><th>not tracked</th><th>low conf.</th><th>match rate</th><th>AIS msgs</th></tr></thead><tbody><tr><td>2026-10-24 01:02 UTC</td><td>115</td><td class='ok'>0</td><td class='bad'>0</td><td style='color:var(--amber)'>115</td><td>0%</td><td>0</td></tr></tbody></table></div>
 <h2>Telemetry</h2><img class="chart" src="charts.png" alt="AIS messages per hour and ships detected per pass">
-<p class="muted mono" style="font-size:12px">Feed gaps in the last 24 h: 13 (1206 min) &middot; AIS messages in the last hour: 0</p>
+<p class="muted mono" style="font-size:12px">Feed gaps in the last 24 h: 15 (1210 min) &middot; AIS messages in the last hour: 0</p>
 <h2>Recent Sentinel-1 acquisitions</h2><ul class="acq"><li>2026-10-24 01:02 UTC</li></ul></main>
 <footer><div class="wrap">Data: Copernicus Sentinel-1 (ESA) &middot; AIS via aisstream.io and the Danish Maritime Authority &middot;
 coastlines, structures and basemap &copy; OpenStreetMap contributors. Flags are candidates for review, not accusations.</div></footer>

diff --git a/docs/demo/index.html b/docs/demo/index.html
@@ -83,7 +83,7 @@ footer{border-top:1px solid var(--line);padding:18px 0 28px;font:12px/1.6 var(--
   <div><div class="kicker">SAR &times; AIS &middot; MARITIME AWARENESS</div><div class="title">DARK VESSEL <b>DETECTION</b></div></div></a>
  <div class="status"><span class="pill"><span class="dot live"></span>AIS FEED <strong>LIVE</strong></span>
   <span class="pill">UTC <strong id="utc">--:--:--</strong></span>
-  <span class="pill">UPDATED <strong>03 Nov 06:20</strong></span></div>
+  <span class="pill">UPDATED <strong>03 Nov 06:34</strong></span></div>
 </div><nav class="tabs"><a class="" href="../index.html">OVERVIEW</a><a class="" href="../mumbai/index.html">MUMBAI</a><a class="" href="../denmark/index.html">DENMARK</a><a class="" href="../nn/index.html">NEURAL NET</a><a class="on" href="../demo/index.html">SIMULATION</a></nav></div></header>
 <main class="wrap"><div class="coords">SIMULATION // SYNTHETIC SCENES WITH KNOWN GROUND TRUTH</div>
 <h1>Simulation: the whole pipeline with a known answer</h1>

diff --git a/docs/nn/index.html b/docs/nn/index.html
@@ -83,7 +83,7 @@ footer{border-top:1px solid var(--line);padding:18px 0 28px;font:12px/1.6 var(--
   <div><div class="kicker">SAR &times; AIS &middot; MARITIME AWARENESS</div><div class="title">DARK VESSEL <b>DETECTION</b></div></div></a>
  <div class="status"><span class="pill"><span class="dot live"></span>AIS FEED <strong>LIVE</strong></span>
   <span class="pill">UTC <strong id="utc">--:--:--</strong></span>
-  <span class="pill">UPDATED <strong>03 Nov 06:20</strong></span></div>
+  <span class="pill">UPDATED <strong>03 Nov 06:34</strong></span></div>
 </div><nav class="tabs"><a class="" href="../index.html">OVERVIEW</a><a class="" href="../mumbai/index.html">MUMBAI</a><a class="" href="../denmark/index.html">DENMARK</a><a class="on" href="../nn/index.html">NEURAL NET</a><a class="" href="../demo/index.html">SIMULATION</a></nav></div></header>
 <main class="wrap"><div class="coords">NEURAL NETWORK // SHIPCNN</div>
 <h1>ShipCNN: our own convolutional network that decides "is this a ship?"</h1>
